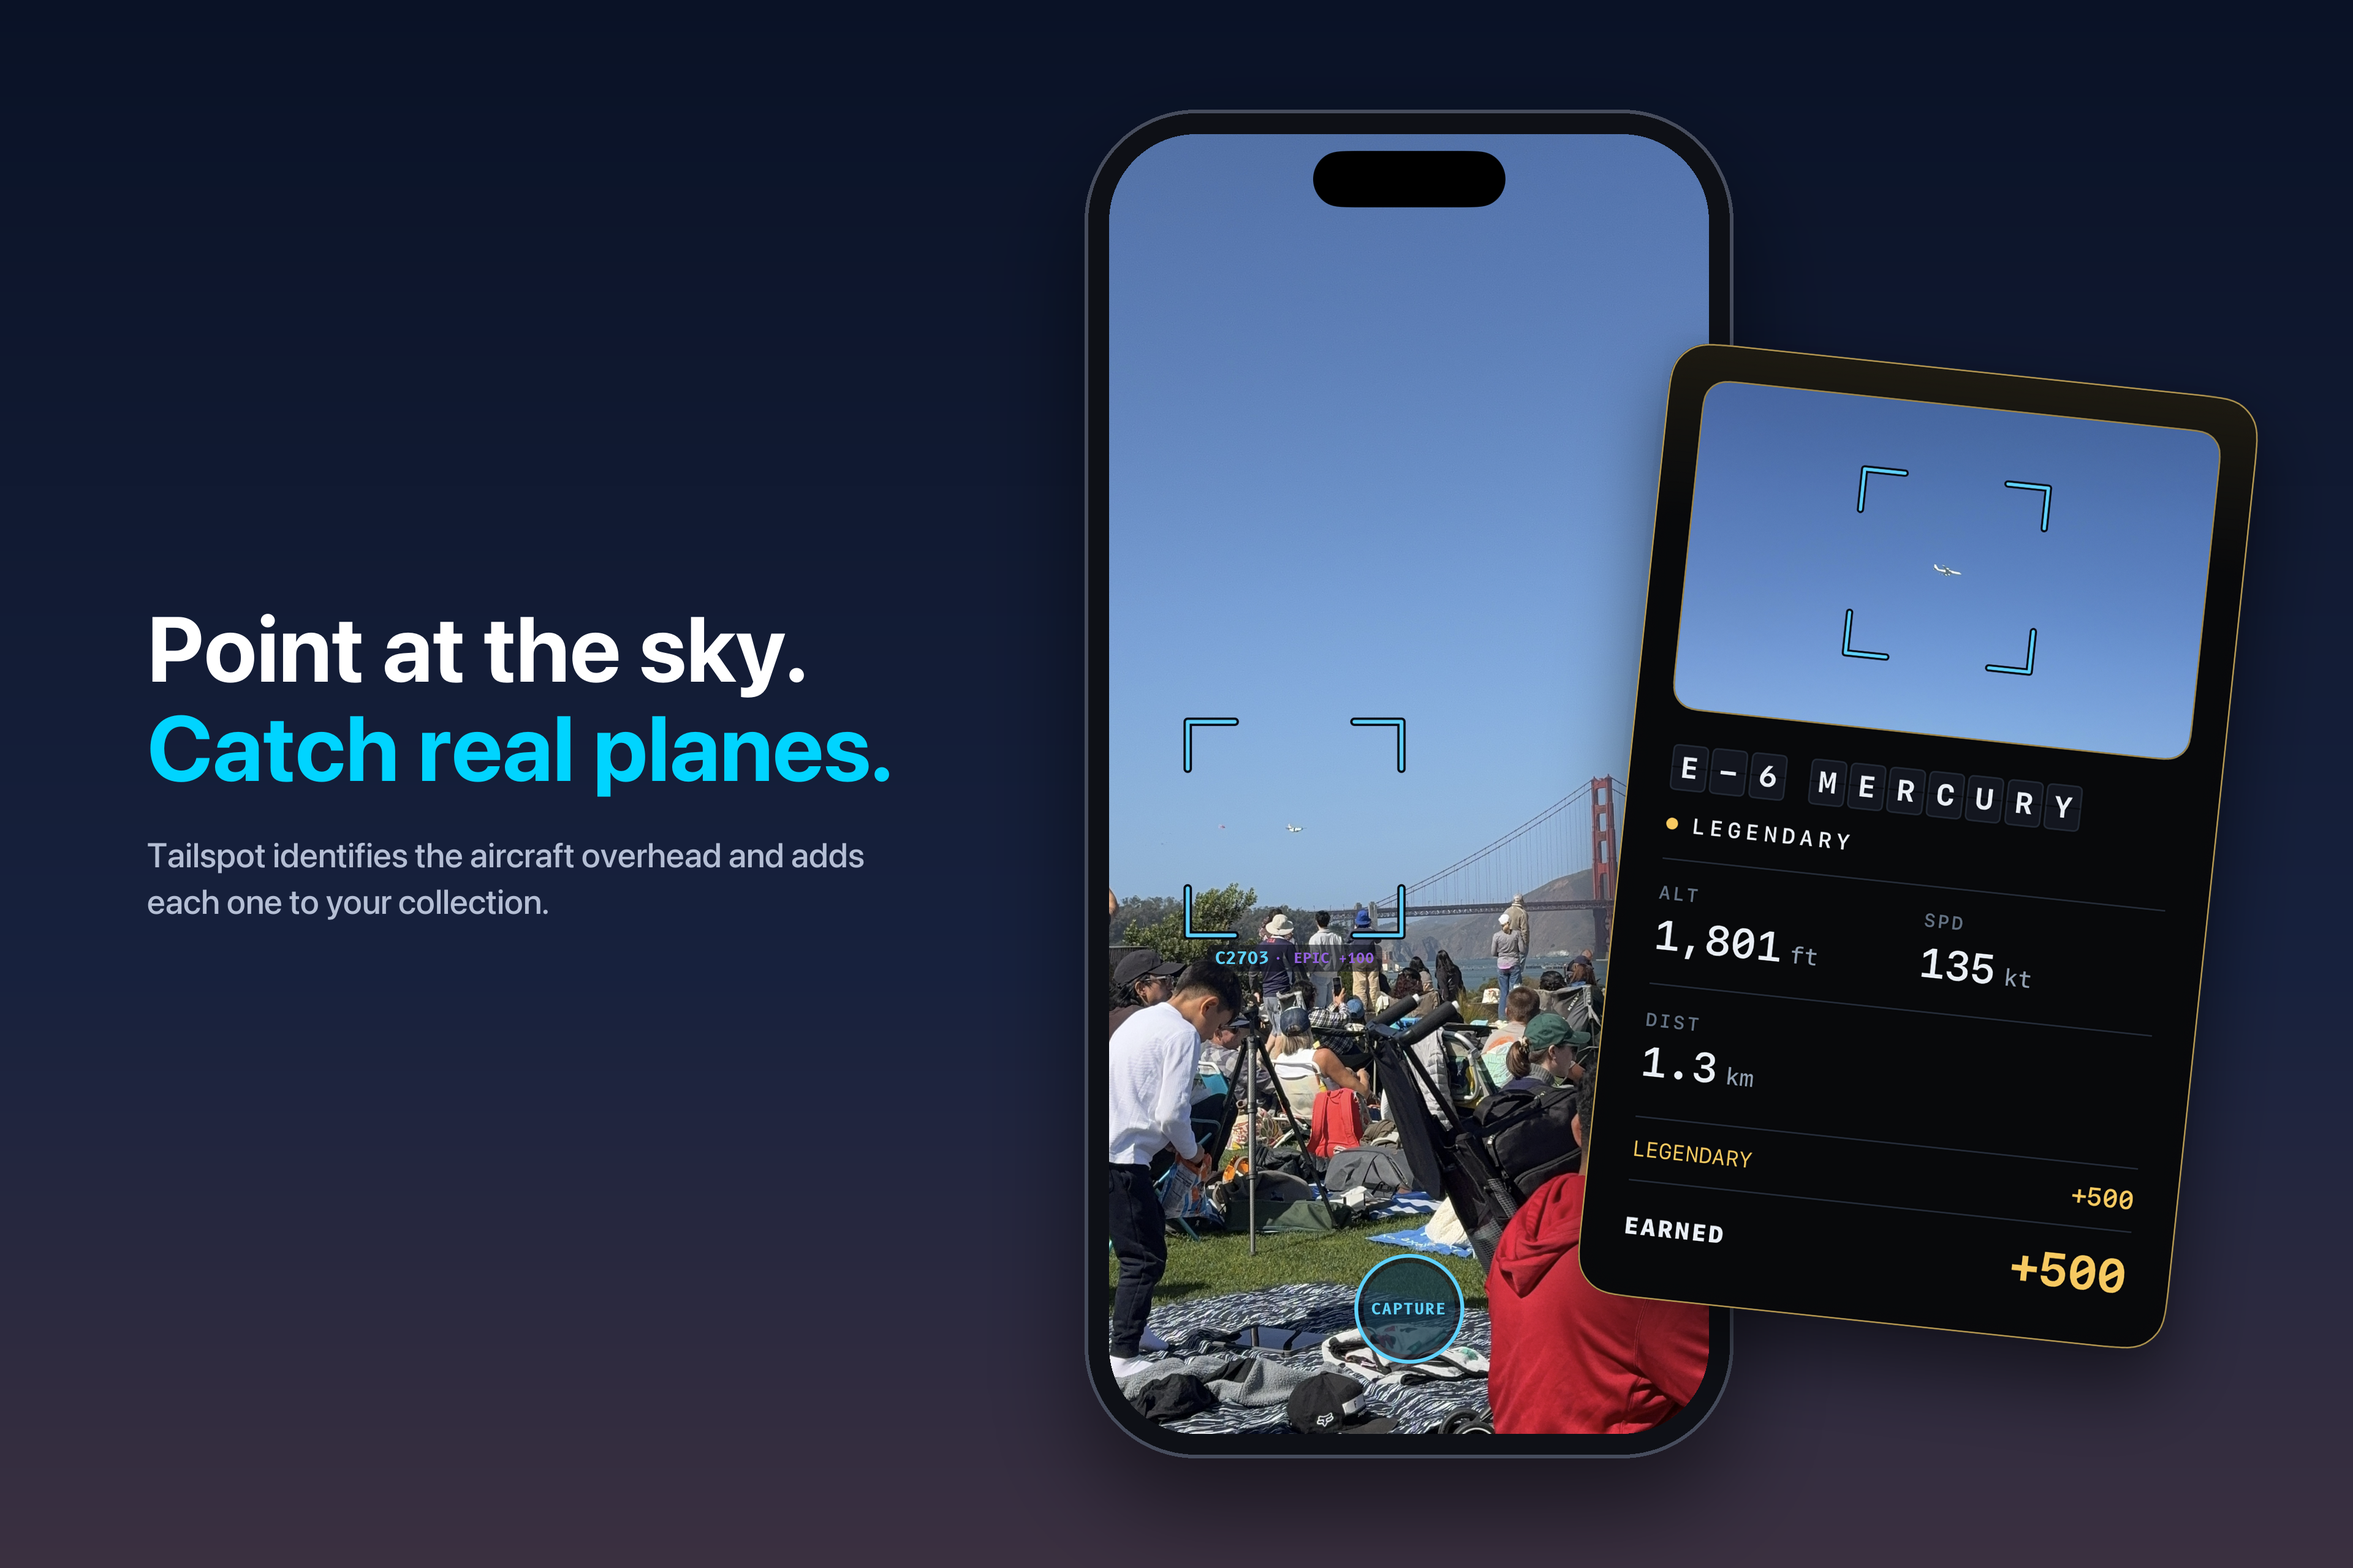
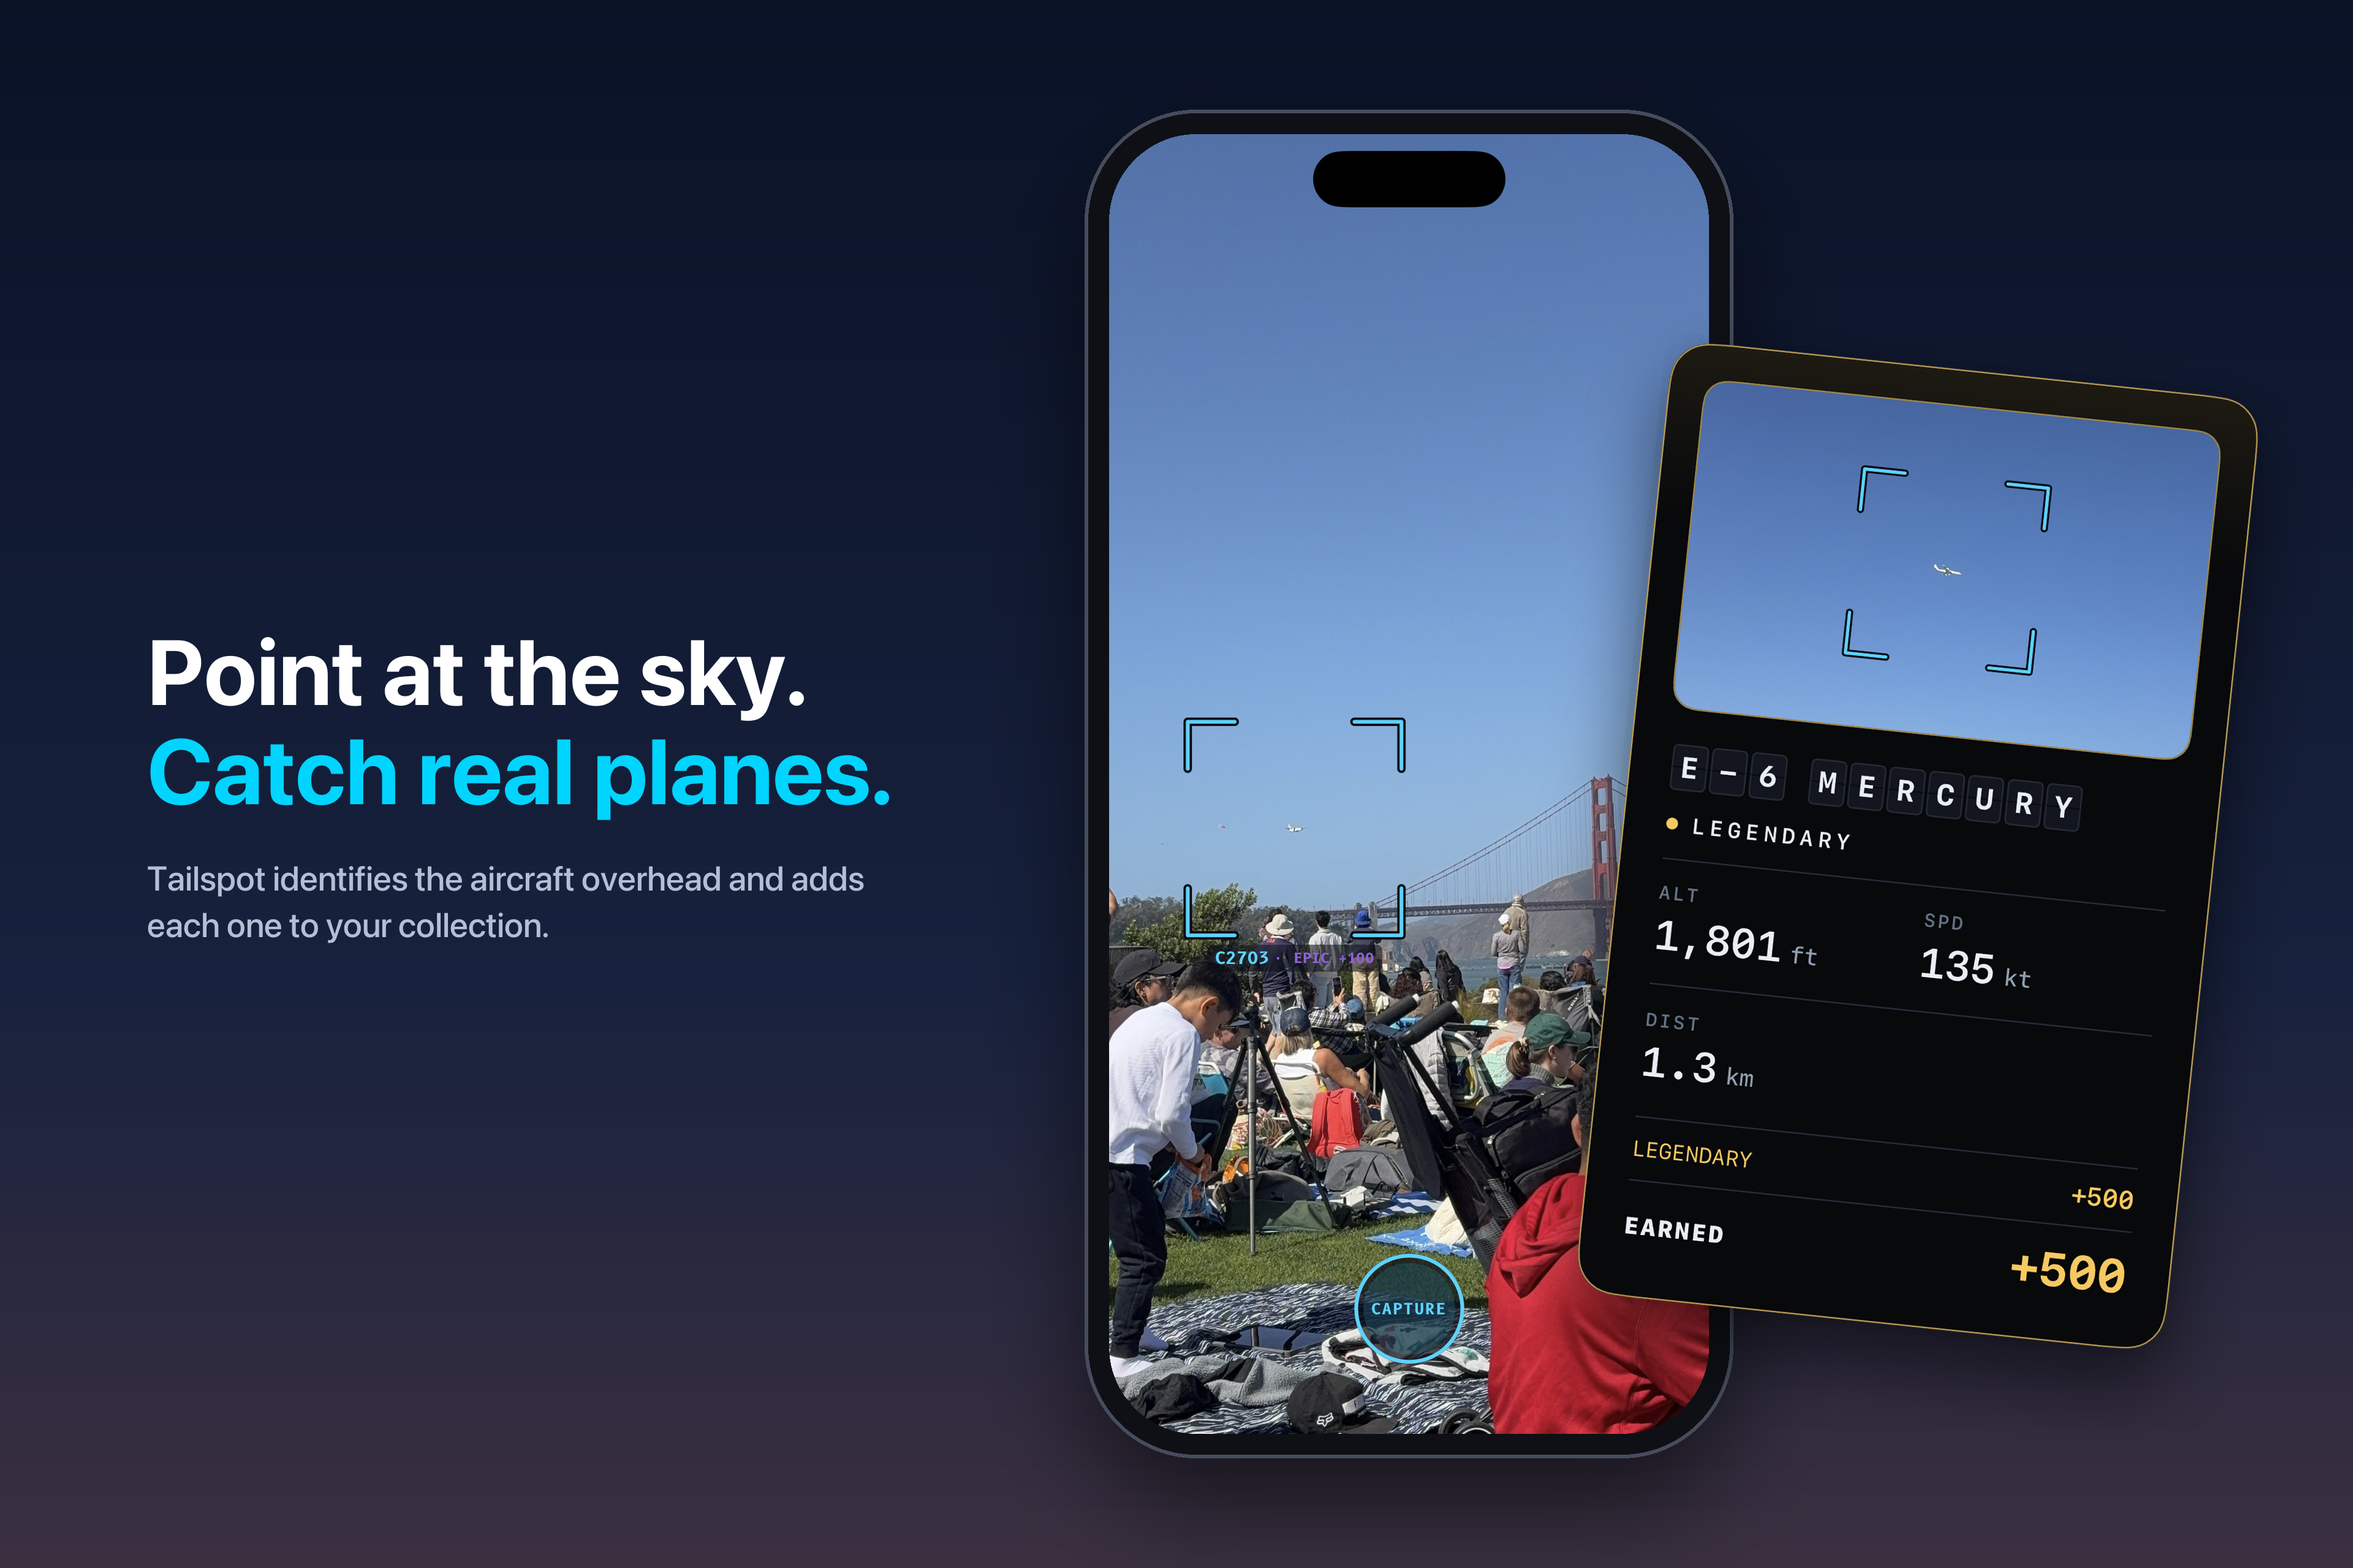
Address review: HUD reads the photo's aspect, honest README, robust compose
- renderFleetWeekHUD fills by the photo's real aspect instead of a
  hard-coded 1728x3072.
- README: slide 1 adds the label and capture button only (the live HUD
  also has Hangar/profile buttons); the regen section covers slides 1–7;
  mkt_07_collection is listed as a spare, and its render is marked so.
- compose.py centres the text from the rows the subline actually wraps to,
  and falls back to the system SF when SF Pro Display isn't installed.
  Header output is pixel-identical; search/universal headlines recentred.

Changed region(s): [[0.0625, 0.375, 0.375, 0.5938]]

diff --git a/ios/Tailspot/TailspotTests/MarketingSnapshotTests.swift b/ios/Tailspot/TailspotTests/MarketingSnapshotTests.swift
@@ -229,6 +229,10 @@ struct MarketingSnapshotTests {
 
     // MARK: - Shot 2b · The collection card (real catch, real photo)
 
+    /// SPARE since 2026-10-12: slide 2 now comes from
+    /// `renderFleetWeekCollectionCard` (mkt_07_fleet_week_e6); kept like
+    /// mkt_02_reveal in case the deck wants the BD-700 card back.
+    ///
     /// "Add each catch to your collection" — the real BD-700 catch's settled
     /// card, its hero photo the actual JPEG the app composed at capture time,
     /// floating on the dusk gradient the app's own onboarding uses.
@@ -353,7 +357,8 @@ struct MarketingSnapshotTests {
         // The photo is 9:16; the screen is taller. Fill by height and slide
         // left so both the brackets and the bridge tower stay in frame.
         let fillHeight = Self.screen.height
-        let fillWidth = fillHeight * 1728 / 3072
+        let aspect = photo.map { $0.size.width / $0.size.height } ?? (1728.0 / 3072.0)
+        let fillWidth = fillHeight * aspect
         let xShift: CGFloat = -40
         let bracketCenter = CGPoint(x: 0.3370 * fillWidth + xShift, y: 0.5343 * fillHeight)
         let bracketHalf: CGFloat = 0.2963 * fillWidth / 2  // measured: box = 29.63 % of frame width

diff --git a/marketing/app-store-creative/compose.py b/marketing/app-store-creative/compose.py
@@ -22,6 +22,22 @@ SNAPS = Path(sys.argv[1] if len(sys.argv) > 1 else "/private/tmp/tailspot_snaps/
 OUT = Path(sys.argv[2] if len(sys.argv) > 2 else Path(__file__).parent / "out")
 FONT_BOLD = "/Library/Fonts/SF-Pro-Display-Bold.otf"
 FONT_MED = "/Library/Fonts/SF-Pro-Display-Medium.otf"
+SYSTEM_SF = "/System/Library/Fonts/SFNS.ttf"   # variable SF, present on every Mac
+
+
+def font(path, size, weight):
+    """SF Pro Display when Apple's installer has been run; otherwise the
+    system's variable SF at the matching weight (same family, same metrics
+    to within a pixel or two)."""
+    try:
+        return ImageFont.truetype(path, size)
+    except OSError:
+        f = ImageFont.truetype(SYSTEM_SF, size)
+        try:
+            f.set_variation_by_name(weight)
+        except Exception:
+            pass
+        return f
 
 # The deck's "tailspot-dusk" gradient (constants.ts bgGradient).
 STOPS = [(0.0, (0x0A, 0x12, 0x26)), (0.62, (0x17, 0x21, 0x3D)), (1.0, (0x3B, 0x30, 0x40))]
@@ -86,21 +102,14 @@ def place(canvas, im, cx, cy, angle=0.0, shadow=True):
 
 def text_block(canvas, x, y, lines, size, sub=None, sub_size=None, accent_line=None, width=None):
     d = ImageDraw.Draw(canvas)
-    f = ImageFont.truetype(FONT_BOLD, size)
+    f = font(FONT_BOLD, size, "Bold")
     lh = round(size * 1.08)
     for i, line in enumerate(lines):
         d.text((x, y + i * lh), line, font=f, fill=CYAN if i == accent_line else INK)
     y_end = y + len(lines) * lh
     if sub:
-        fs = ImageFont.truetype(FONT_MED, sub_size)
-        words, row, rows = sub.split(), "", []
-        for w in words:
-            trial = (row + " " + w).strip()
-            if width and d.textlength(trial, font=fs) > width:
-                rows.append(row); row = w
-            else:
-                row = trial
-        rows.append(row)
+        fs = font(FONT_MED, sub_size, "Medium")
+        rows = wrap(sub, fs, width)
         sy = y_end + round(size * 0.45)
         for i, r in enumerate(rows):
             d.text((x, sy + i * round(sub_size * 1.35)), r, font=fs, fill=MUTED)
@@ -108,18 +117,34 @@ def text_block(canvas, x, y, lines, size, sub=None, sub_size=None, accent_line=N
     return y_end
 
 
-def text_height(lines, size, sub_rows, sub_size):
-    return len(lines) * round(size * 1.08) + round(size * 0.45) + sub_rows * round(sub_size * 1.35)
+def wrap(text, f, width):
+    d = ImageDraw.Draw(Image.new("RGB", (1, 1)))
+    row, rows = "", []
+    for w in text.split():
+        trial = (row + " " + w).strip()
+        if width and d.textlength(trial, font=f) > width:
+            rows.append(row); row = w
+        else:
+            row = trial
+    rows.append(row)
+    return rows
+
+
+def text_height(lines, size, sub, sub_size, width):
+    """Height of the block text_block will draw, from the rows the subline
+    actually wraps to (so editing the copy can't knock it off-centre)."""
+    rows = len(wrap(sub, font(FONT_MED, sub_size, "Medium"), width))
+    return len(lines) * round(size * 1.08) + round(size * 0.45) + rows * round(sub_size * 1.35)
 
 
 def header():
     W, H = 3840, 1646
     c = gradient(W, H)
     lines = ["Catch the planes", "flying overhead."]
-    th = text_height(lines, 150, 2, 58)
+    sub = "Point your iPhone at the sky. Every catch is a real plane, identified live."
+    th = text_height(lines, 150, sub, 58, 1500)
     text_block(c, 330, (H - th) // 2, lines, 150, accent_line=1,
-               sub="Point your iPhone at the sky. Every catch is a real plane, identified live.",
-               sub_size=58, width=1500)
+               sub=sub, sub_size=58, width=1500)
     side = card("t33", 1180)
     place(c, side, 2270, 860, angle=8)
     side = card("t6", 1180)
@@ -132,10 +157,10 @@ def phone_and_card(W, H, scale, text_x, phone_cx, card_cx, card_h=0.70):
     c = gradient(W, H)
     lines = ["Point at the sky.", "Catch real planes."]
     size, sub_size = round(170 * scale), round(64 * scale)
-    th = text_height(lines, size, 3, sub_size)
+    sub = "Tailspot identifies the aircraft overhead and adds each one to your collection."
+    th = text_height(lines, size, sub, sub_size, round(1350 * scale))
     text_block(c, text_x, (H - th) // 2, lines, size, accent_line=1,
-               sub="Tailspot identifies the aircraft overhead and adds each one to your collection.",
-               sub_size=sub_size, width=round(1350 * scale))
+               sub=sub, sub_size=sub_size, width=round(1350 * scale))
     p = phone(round(H * 0.86))
     place(c, p, phone_cx, H // 2)
     place(c, card("e6", round(H * card_h)), card_cx, round(H * 0.54), angle=-6)

diff --git a/marketing/README.md b/marketing/README.md
@@ -36,12 +36,12 @@ edge (slide 6's two phones reach into slides 5 and 7). A slide with
 canvas inside its own clip, so nothing bleeds onto it or off it. Slide 7
 uses it; flipping it on for another slide changes only that slide's export.
 
-`mkt_02_reveal` also renders but **no slide uses it** — it's a spare if the
+`mkt_02_reveal` and `mkt_07_collection` (the old BD-700 slide 2) also render but **no slide uses them** — it's a spare if the
 deck ever wants the reveal screen. Likewise `mkt_08b_challenge_live_expanded`
 (my catch log open) and `mkt_09_challenges_hub` render as Challenges spares. `bin/marketing-collect` owns the
 shot → filename mapping so nobody has to remember the crossover.
 
-## Regenerating slides 2–7
+## Regenerating slides 1–7
 
 ```bash
 bin/marketing-stage-photos          # real catch photos → /private/tmp
@@ -100,8 +100,9 @@ catch photo of the C-27J over the Golden Gate (`catch-photos/fw_c27j_golden_gate
 brackets baked in by `CatchPhotoComposer` at capture), filling the screen,
 with the HUD's pinned label and capture button drawn on top by
 `renderFleetWeekHUD` using the same styling as `PlaneLabel` / `captureButton`.
-The sky, plane and brackets are untouched; only the label and button are
-added, which is what the live HUD shows. Faces: the crowd is mostly backs of
+The sky, plane and brackets are untouched. Only the pinned label and the
+capture button are added; the live HUD also shows the Hangar and profile
+buttons, which this render leaves out. Faces: the crowd is mostly backs of
 heads, but a few strangers are recognisable at full size.
 
 The previous slide 1, described below, was a real HUD screenshot.

diff --git a/marketing/app-store-creative/README.md b/marketing/app-store-creative/README.md
@@ -21,7 +21,7 @@ TEST_RUNNER_MARKETING_CAPTURE=1 xcodebuild test \
   -destination 'platform=iOS Simulator,id=<sim>' -parallel-testing-enabled NO \
   "-only-testing:TailspotTests/MarketingSnapshotTests/renderFleetWeekHUD()" \
   "-only-testing:TailspotTests/MarketingSnapshotTests/renderFleetWeekCardParts()"
-python3 marketing/app-store-creative/compose.py   # needs Pillow
+python3 marketing/app-store-creative/compose.py   # needs Pillow; uses SF Pro Display if installed, else the system SF
 ```
 
 (Swift Testing filters need the trailing `()`; without it xcodebuild runs 0
